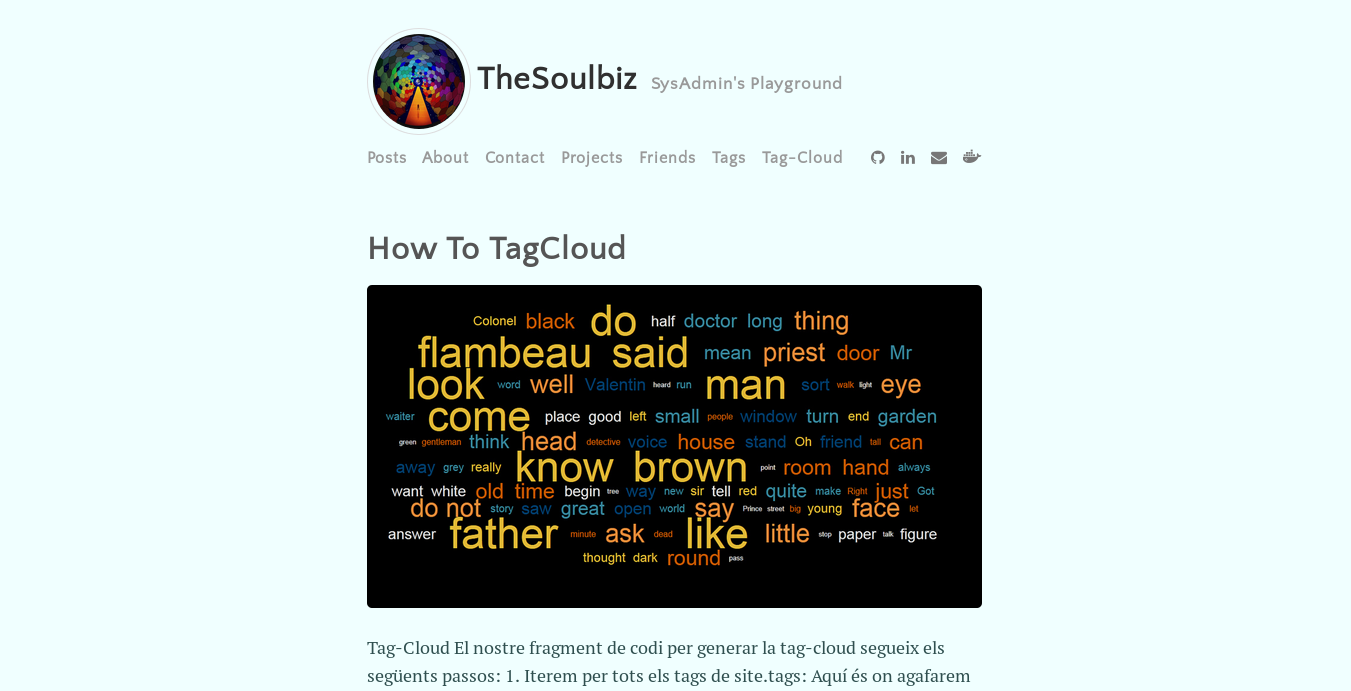
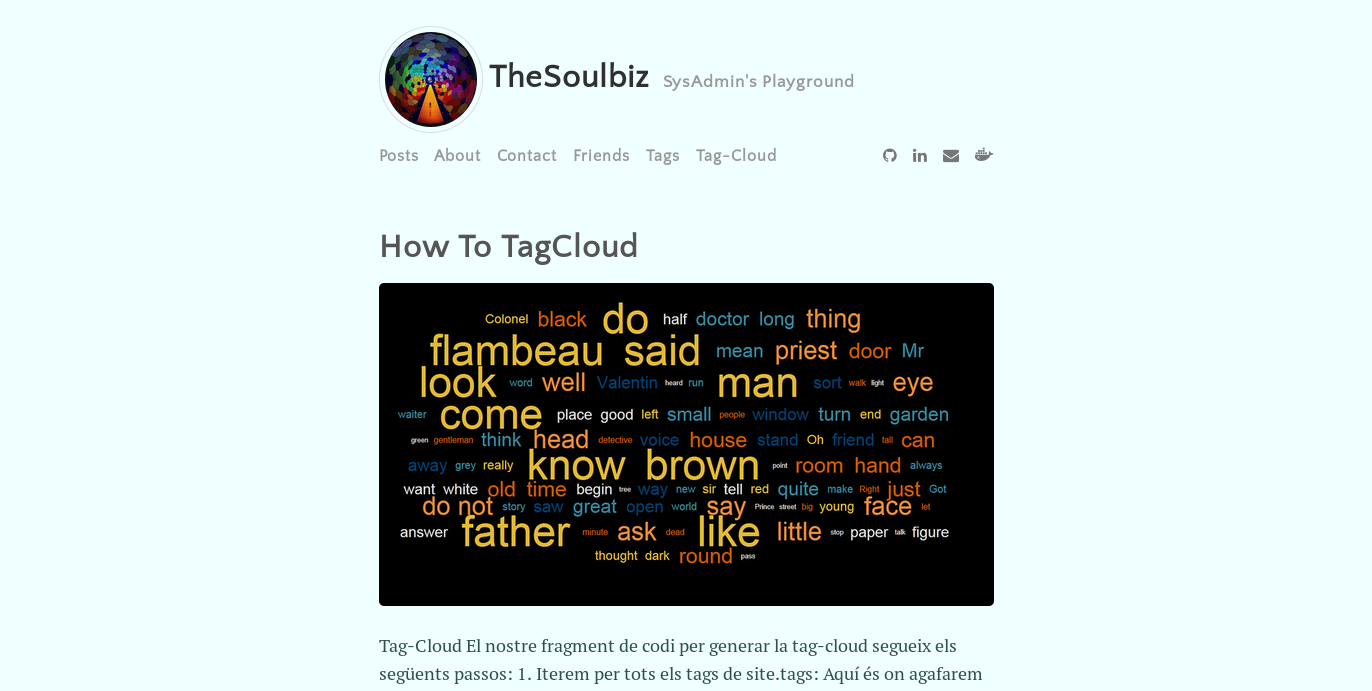
Changed README

diff --git a/README.md b/README.md
@@ -13,10 +13,20 @@ You can navigate a normal tag list or tag cloud for that purpose.
 You can also check a post's tags at the end of it!
 That way you can directly access the index listing the other posts that share the same tag.
 
-* Stylish card-like entries in the "About" section (taken from _includes html).
+* Stylish card-like entries in the "About" section (taken from _includes).
 
 * "Friends" menu tab with other people's sites. Could be used as a "Related sites".
 
 * Own Disqus comment section per post.
 
 * Own Docker social-icon w/ link to my profile and dockers.
+
+* Many CSS visual changes while keeping it minimalist!
+
+### Posts
+
+Right now, it keeps the original sample posts.
+
+I added a How-To with the steps required to add the Tag-Cloud tab.
+
+The post list keeps a "paginator" that can be modified from the _config.yml file.
